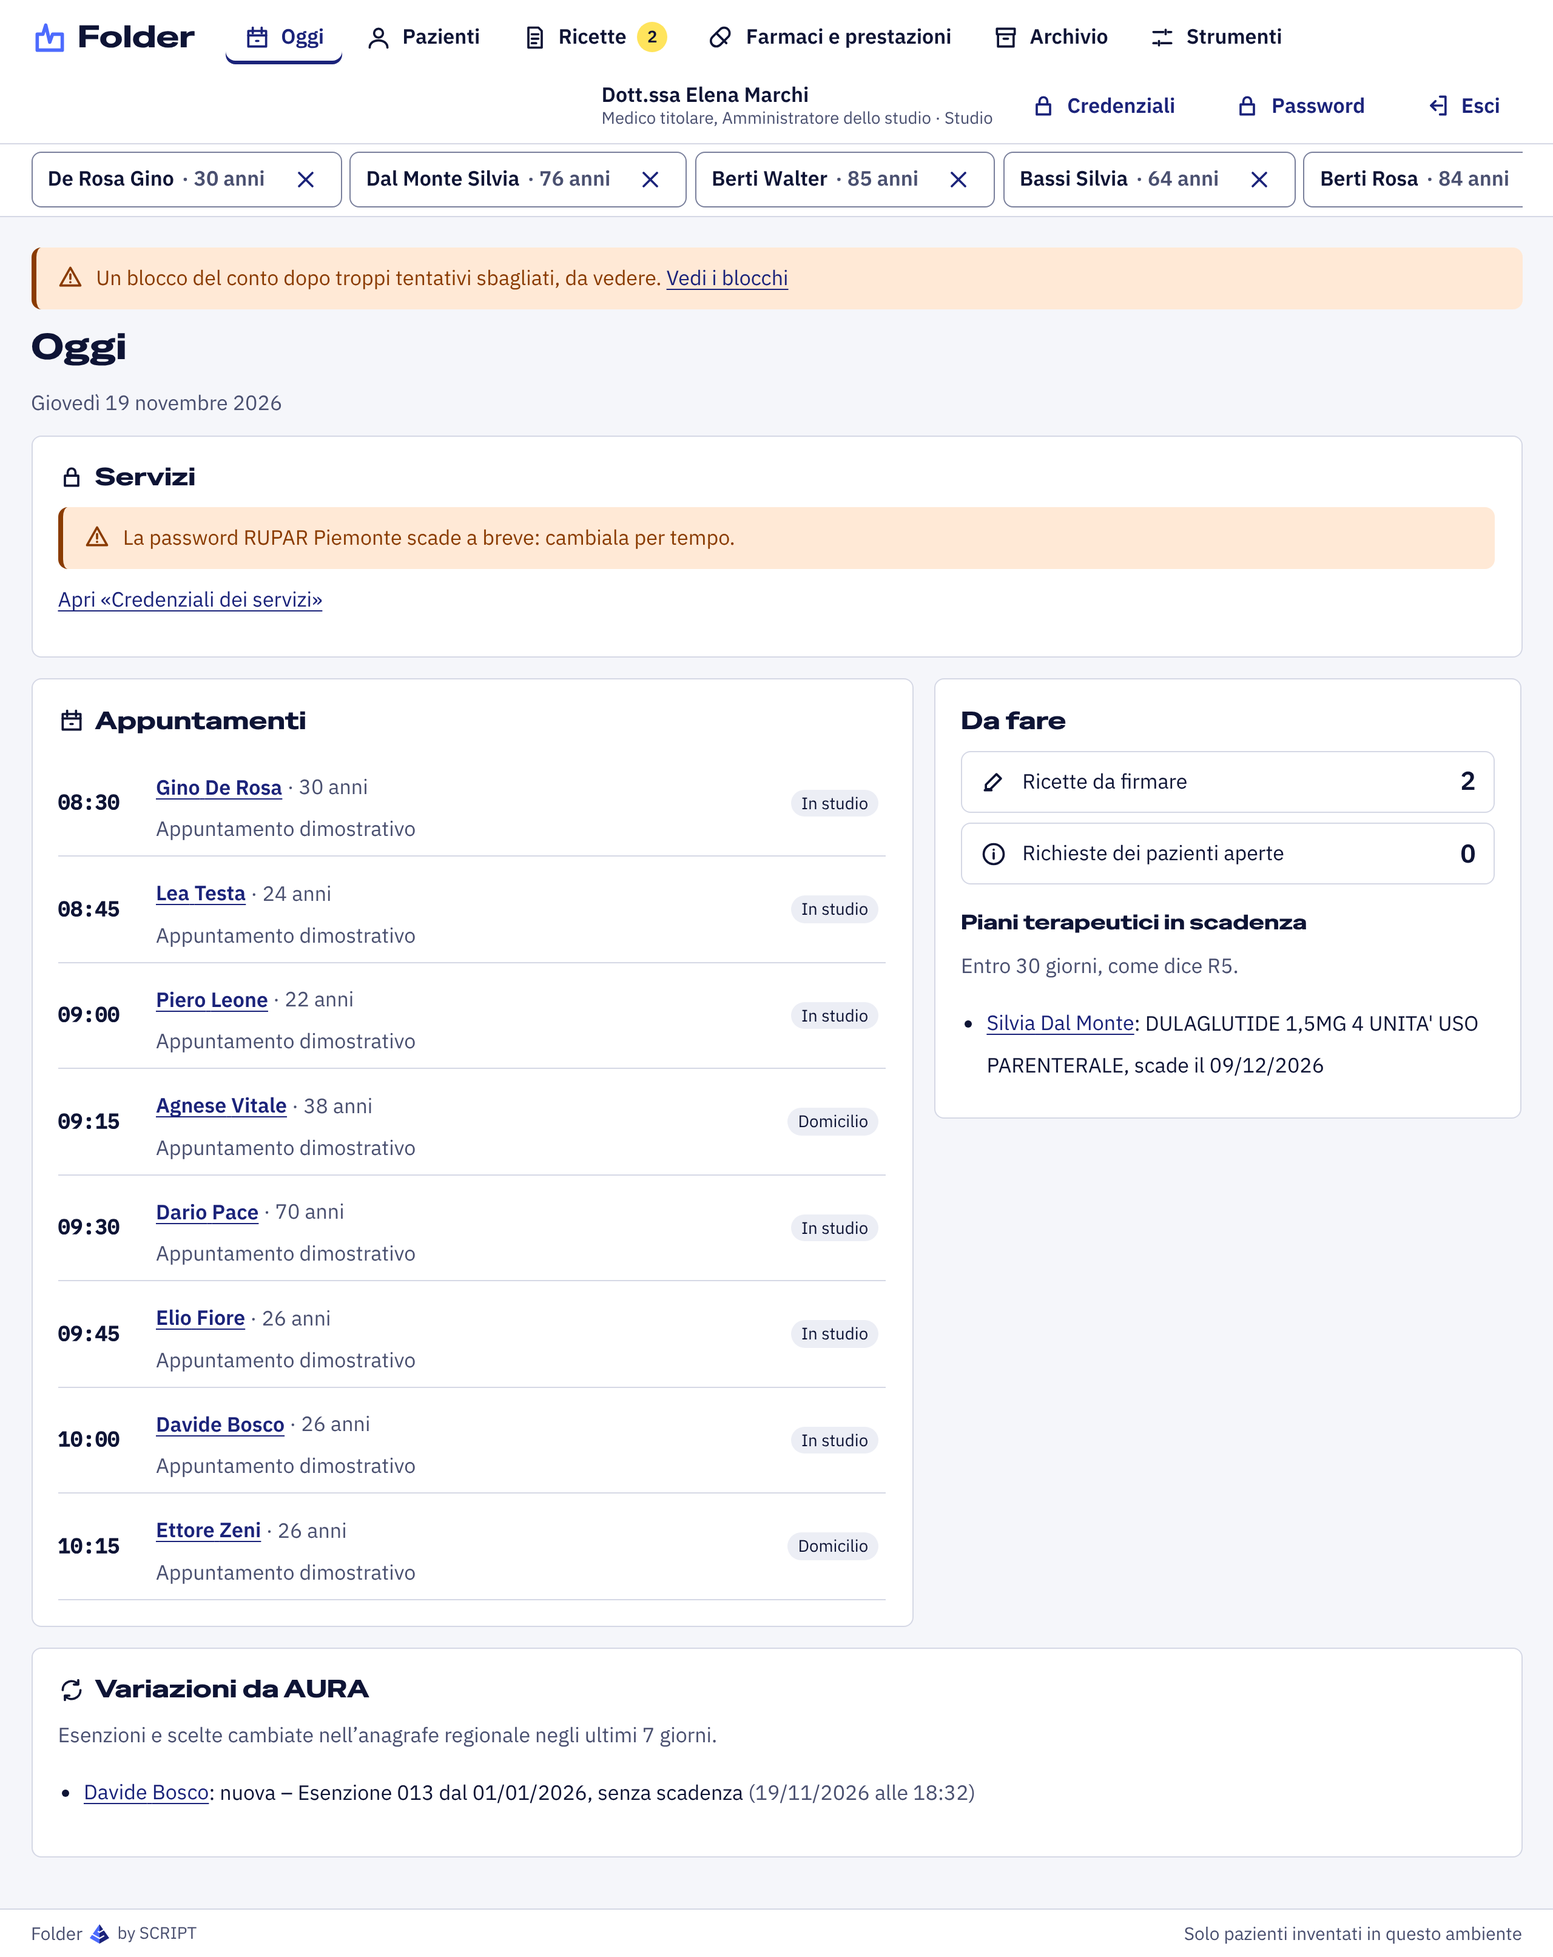
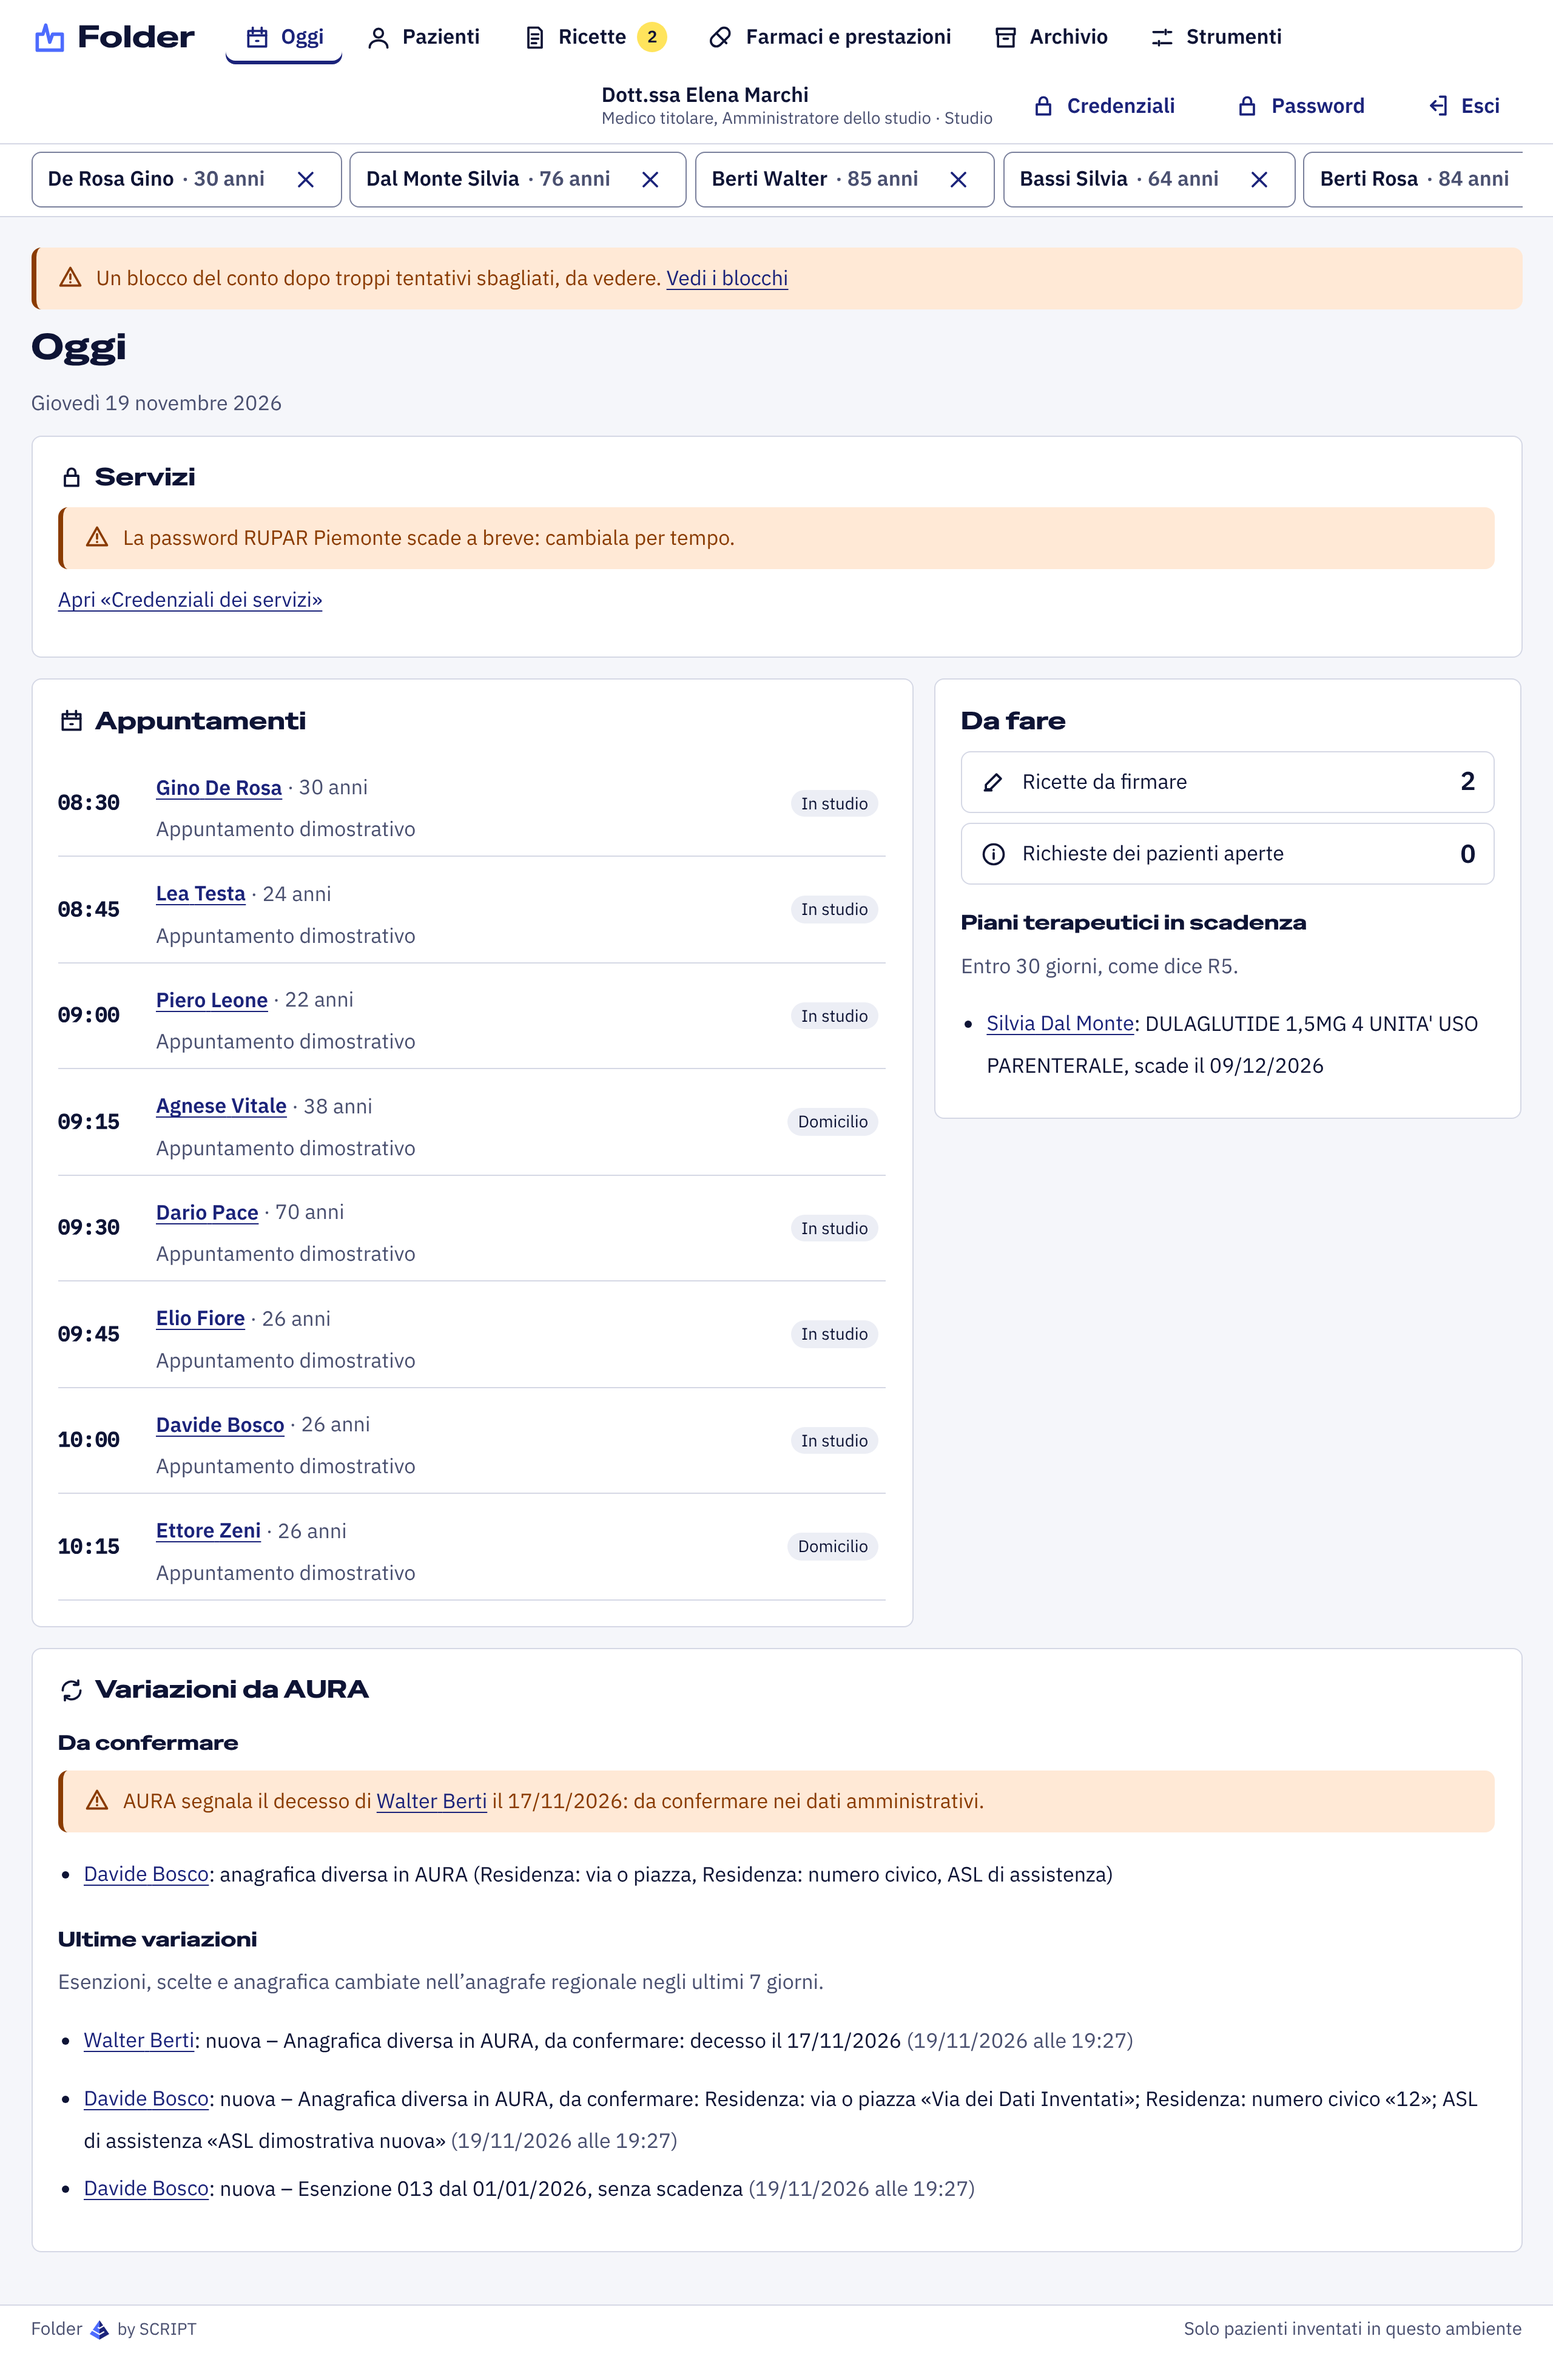
AURA: schermate di D198 e etichette intere nel testo delle variazioni
- Schermata 62 nuova (anagrafica diversa in AURA, da confermare); 60, 61 e 45 rifatte: in Oggi
  il decesso segnalato da AURA in evidenza.
- Nel testo delle variazioni le etichette restano come sono («ASL di assistenza»), senza
  minuscole forzate.
- Lo script delle schermate preme «Aggiorna da AURA» dopo il cambio, così non dipende dai tempi
  della notifica; con SCHERMATE_REGISTRO=1 il servizio scrive richieste ed errori.

Claude-Session: https://claude.ai/code/session_01Tv4Yo344qXk13ZKY4SDVSw

diff --git a/apps/api/test/e2e/schermate.ts b/apps/api/test/e2e/schermate.ts
@@ -53,6 +53,8 @@ const app = buildApp({
   config: { ...config, cookieSecure: false },
   referenceUpdates,
   aura: { gateway: aura },
+  // SCHERMATE_REGISTRO=1: il servizio scrive le sue richieste e i suoi errori.
+  logger: process.env.SCHERMATE_REGISTRO === '1',
 });
 mkdirSync(OUT, { recursive: true });
 
@@ -742,15 +744,18 @@ try {
     residenceNumber: '12',
     asl: 'ASL dimostrativa nuova',
   });
-  const arrived = async (id: string) =>
+  // La notifica di AURA basta di solito; la segreteria può anche premere «Aggiorna da AURA».
+  const arrived = async () =>
     (
       await db.execute<{ ok: boolean }>(
-        sql`select registry is not null as ok from aura_link where patient_id = ${id}`,
+        sql`select registry is not null as ok from aura_link where patient_id = ${diabetic.id}`,
       )
     ).rows[0]?.ok === true;
-  for (let i = 0; i < 100 && !(await arrived(diabetic.id)); i++)
-    await new Promise((r) => setTimeout(r, 50));
+  for (let i = 0; i < 100 && !(await arrived()); i++) await new Promise((r) => setTimeout(r, 50));
+  console.log(`  notifica di AURA ${(await arrived()) ? 'arrivata' : 'non arrivata'}`);
   await page.goto(`${base}/pazienti/${diabetic.id}/amministrazione#aura`);
+  await auraSection.getByRole('button', { name: 'Aggiorna da AURA' }).click();
+  await auraSection.getByText(/^Aggiornato da AURA/).waitFor();
   const pending = auraSection.getByRole('heading', {
     name: 'Anagrafica diversa in AURA, da confermare',
   });

diff --git a/apps/api/src/aura/registry.ts b/apps/api/src/aura/registry.ts
@@ -140,7 +140,7 @@ export function registryText(diffs: readonly RegistryDifference[]): string {
     .map((d) =>
       d.campo === 'decesso'
         ? `decesso il ${itDate(d.inAura)}`
-        : `${d.etichetta.toLowerCase()} «${d.inAura}»`,
+        : `${d.etichetta} «${d.inAura}»`,
     )
     .join('; ')}`;
 }
